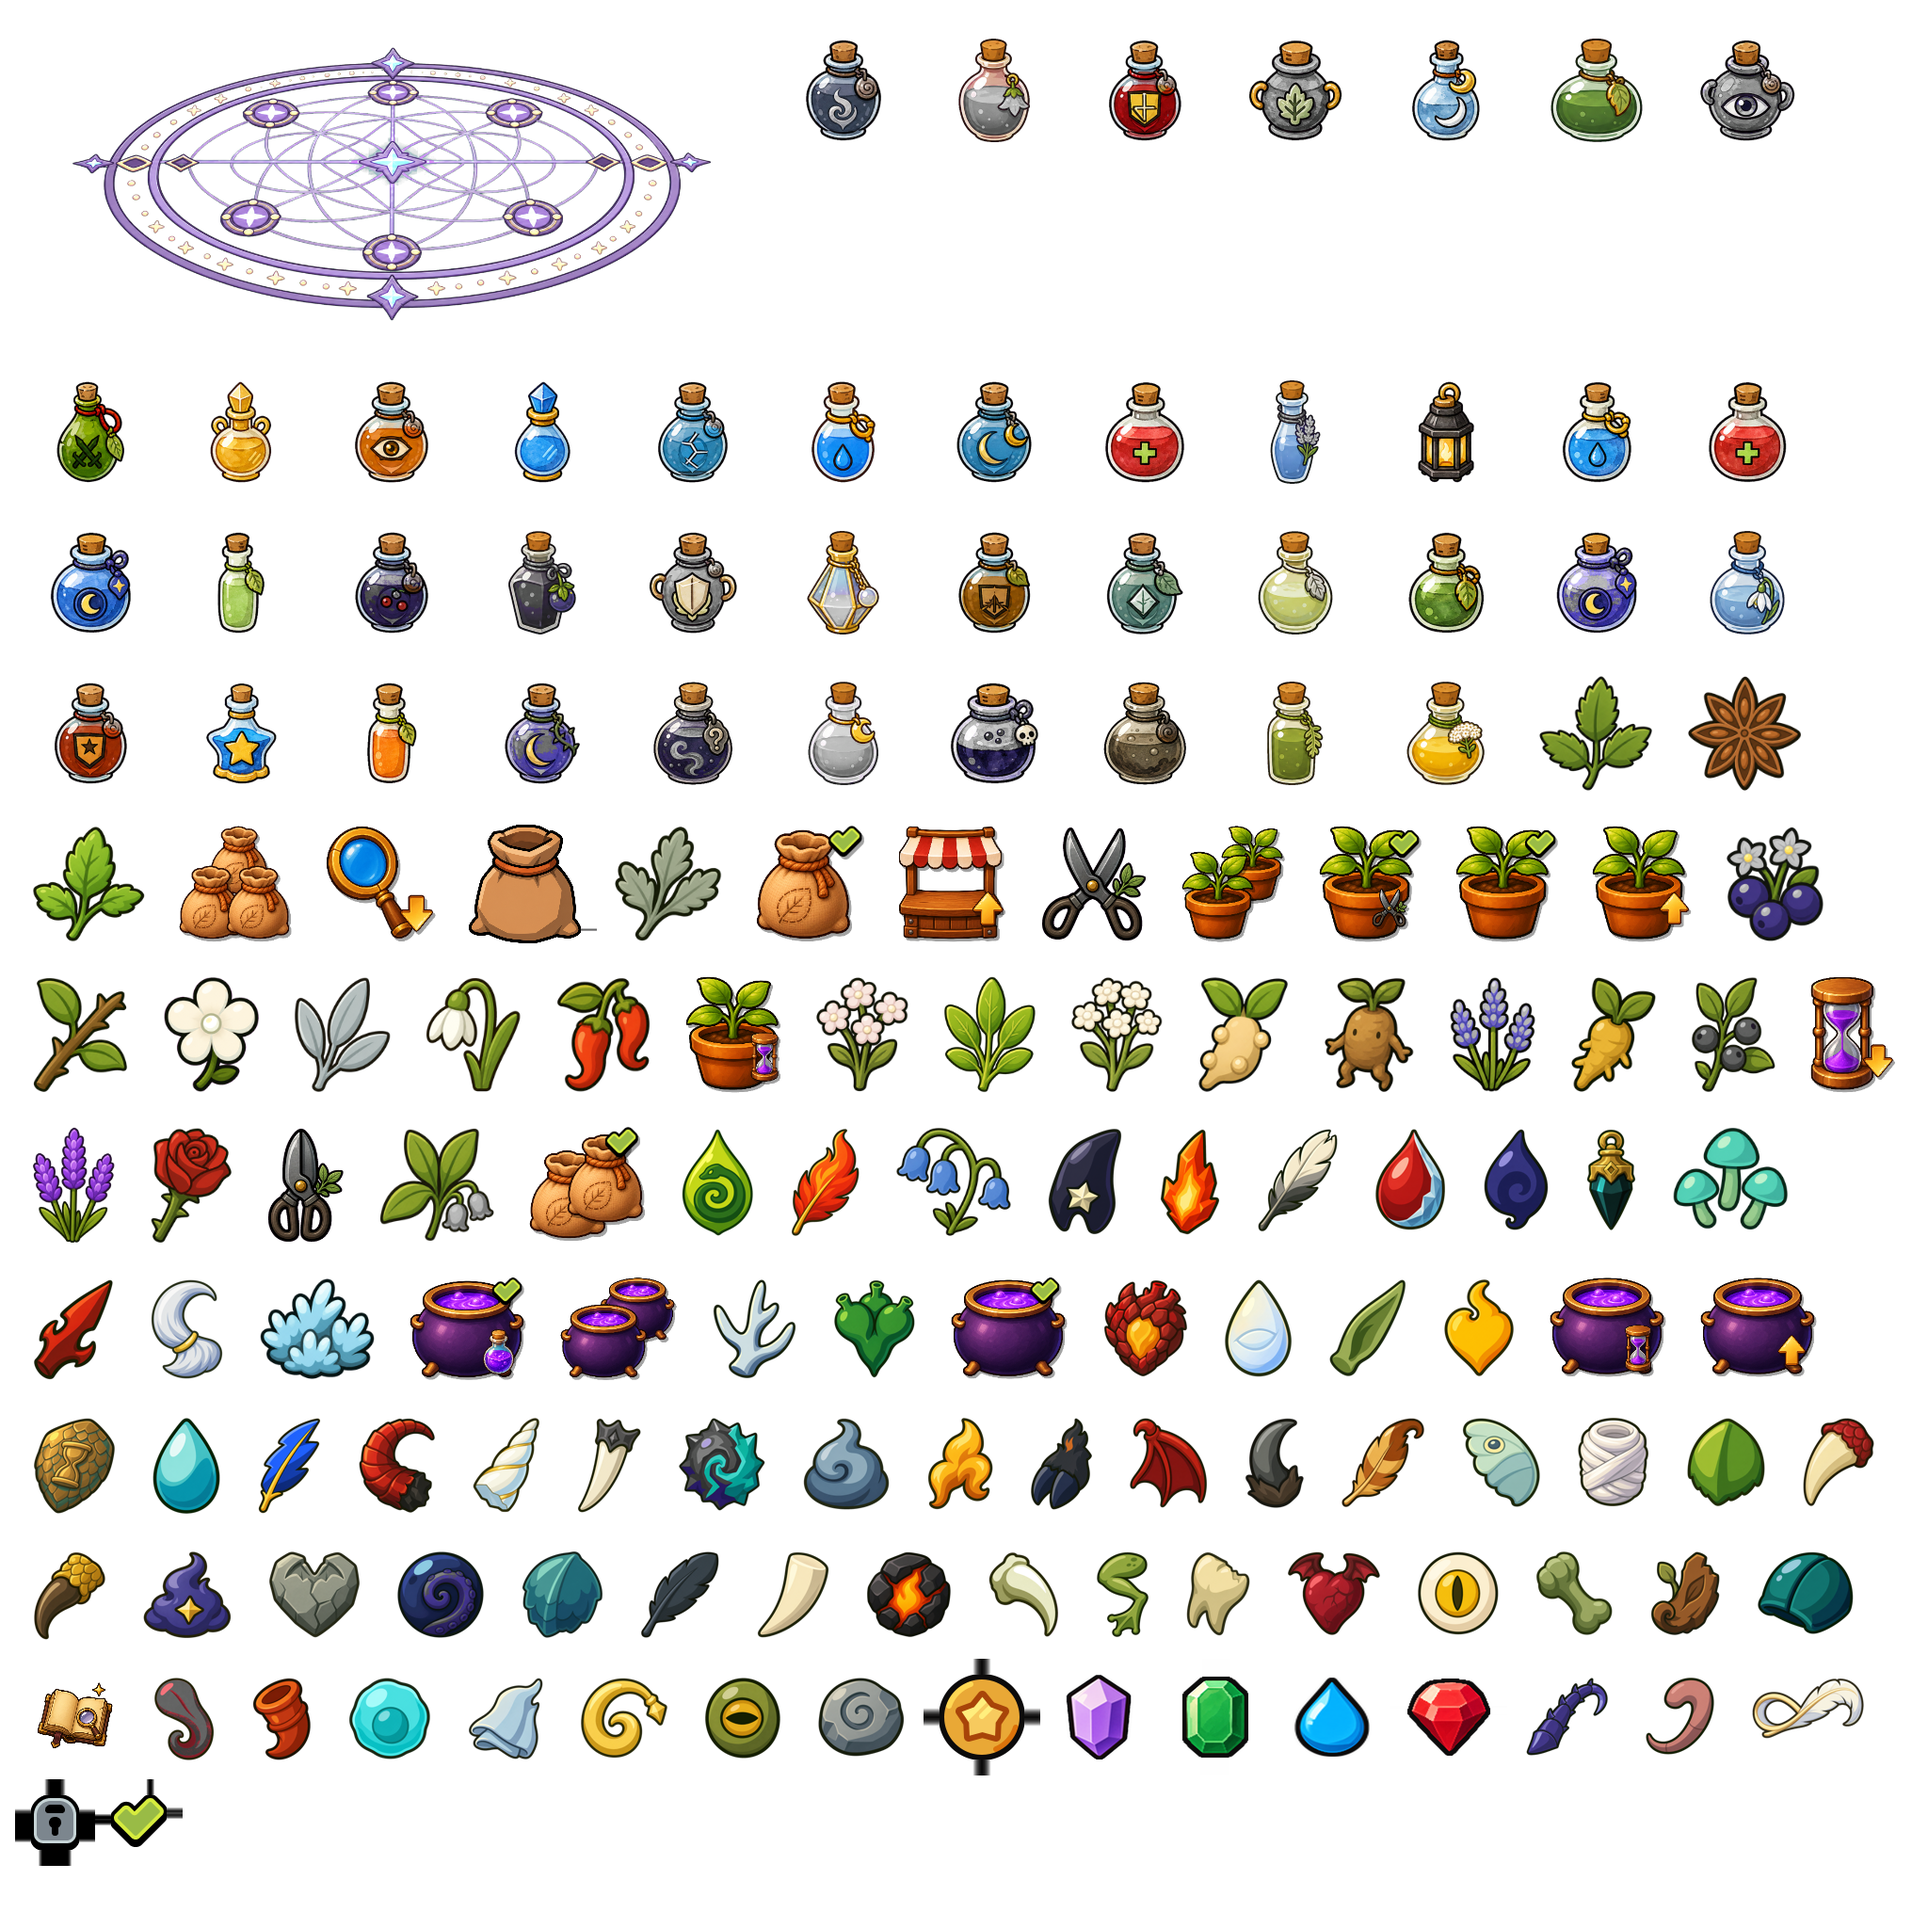
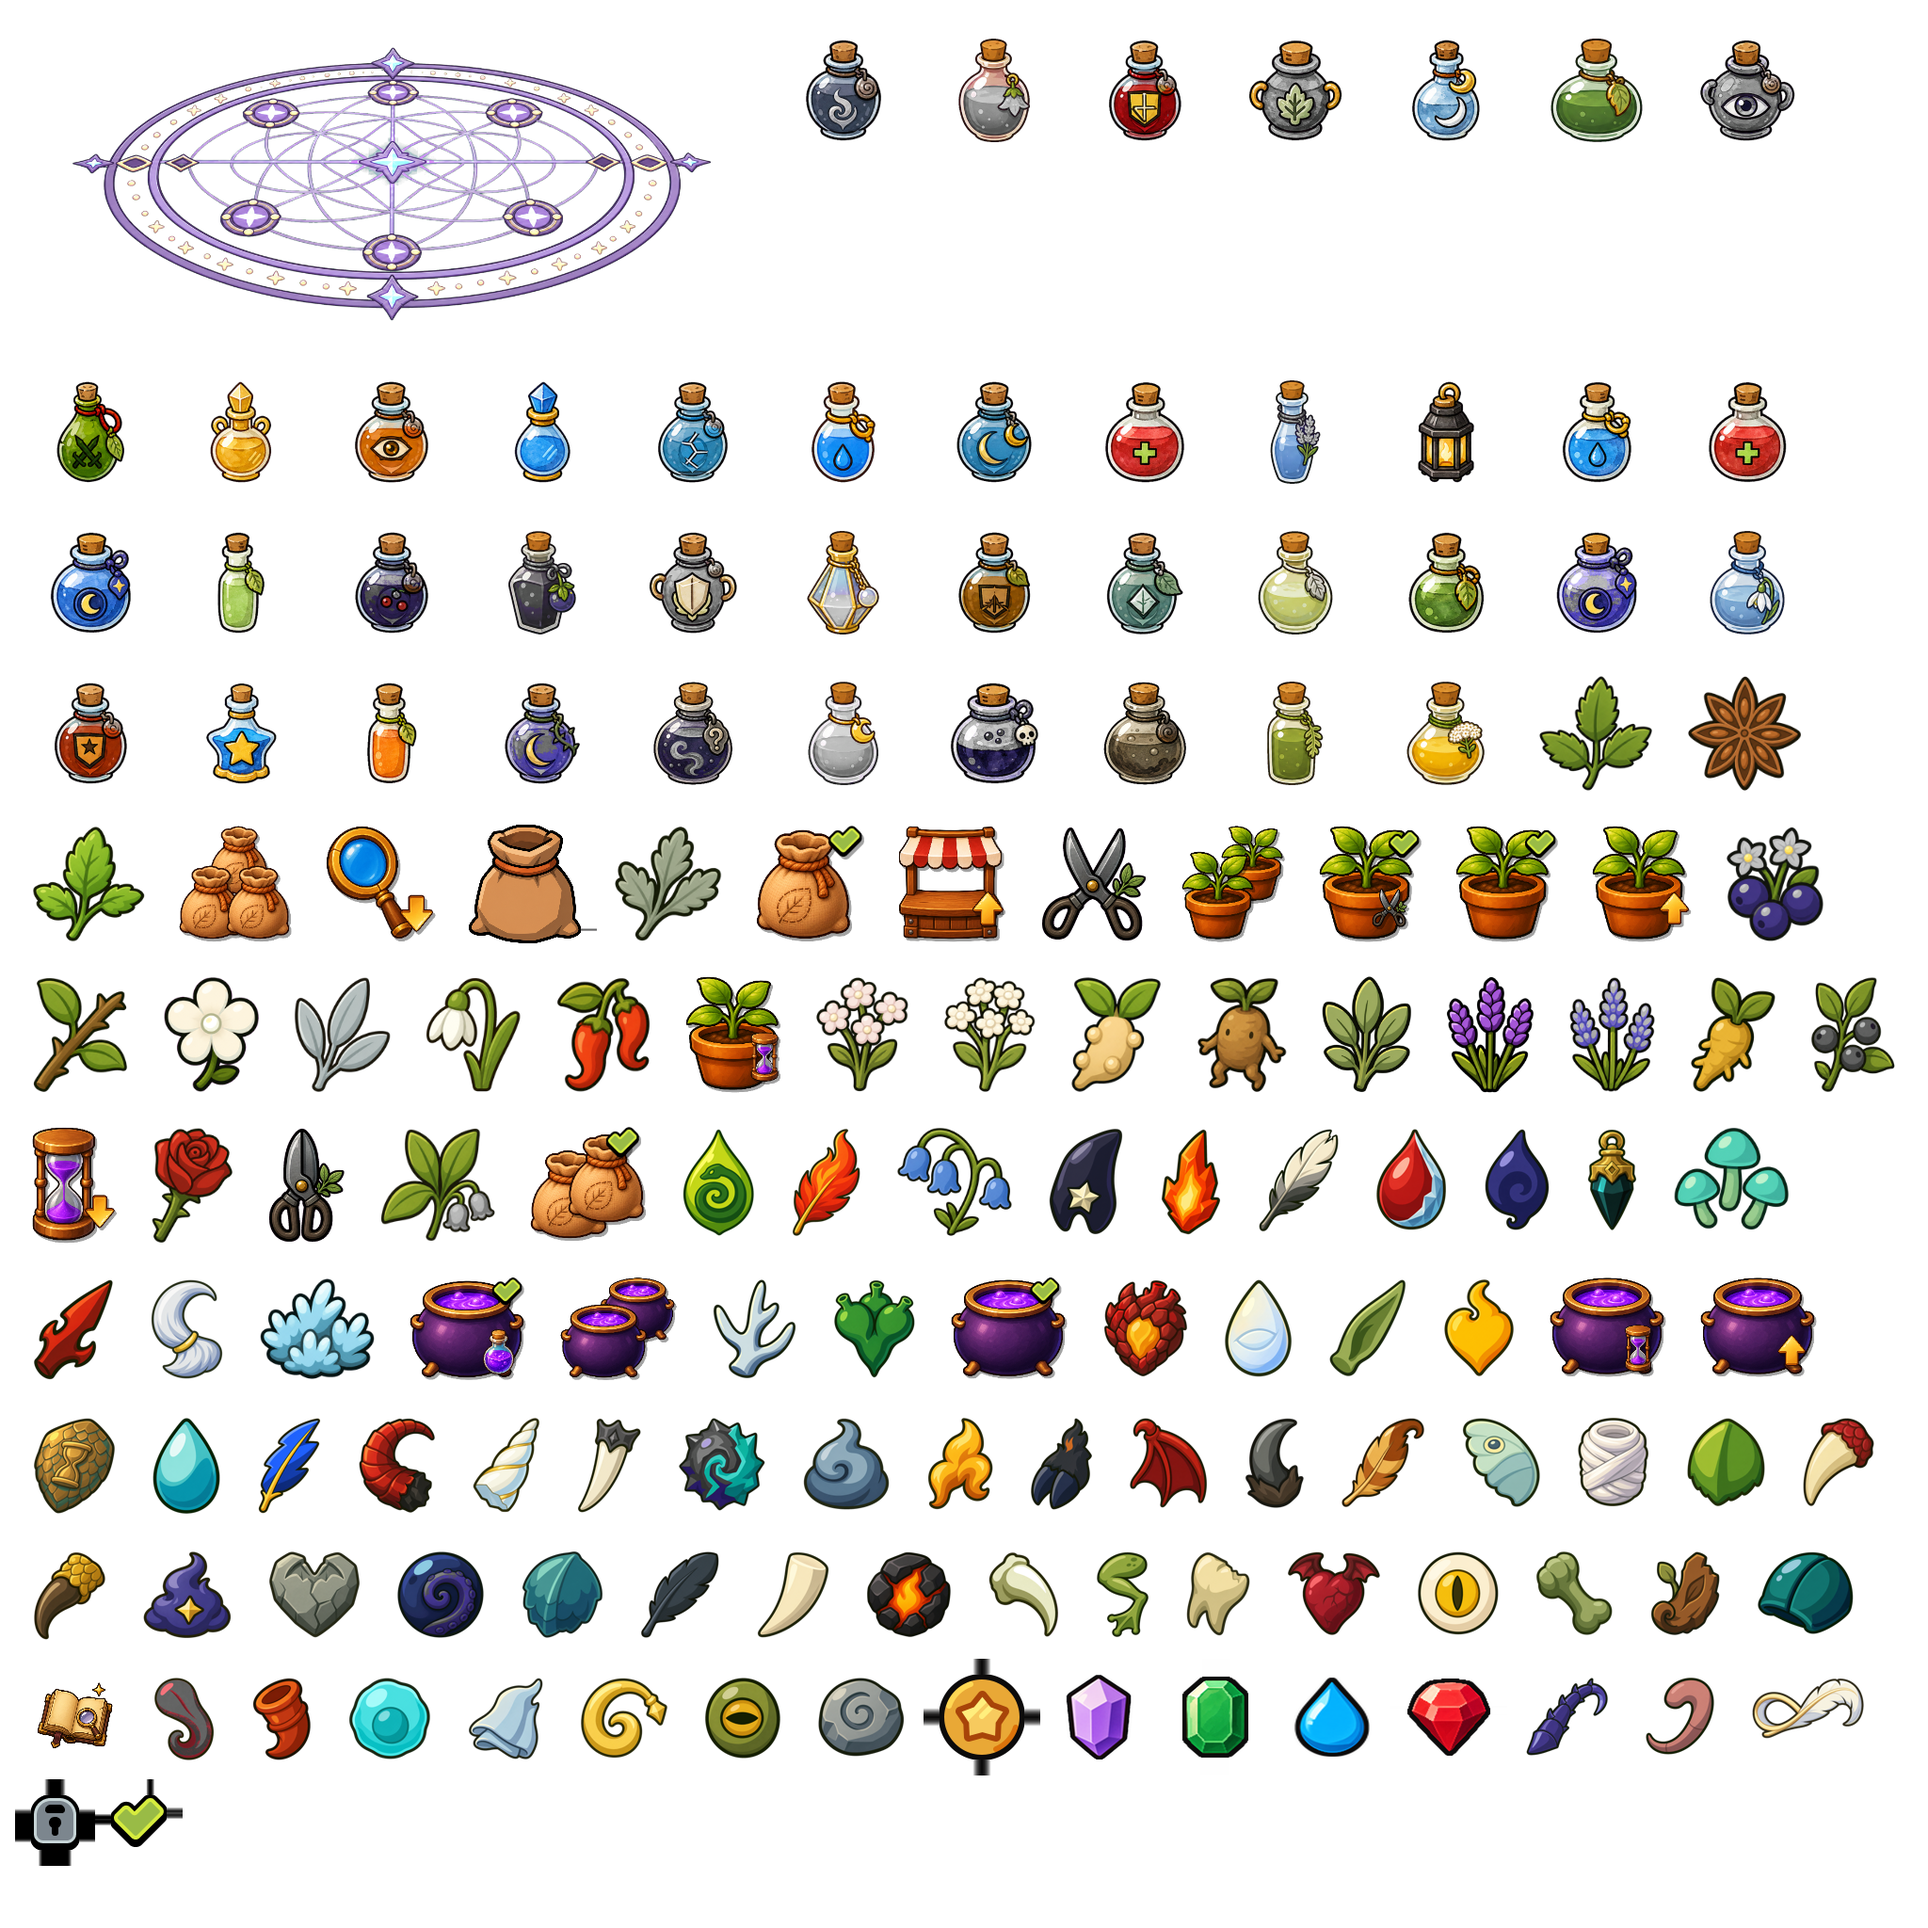
update generated UI assets

diff --git a/src/gameplay/GameplayFacade.test.js b/src/gameplay/GameplayFacade.test.js
@@ -1019,7 +1019,7 @@ describe('GameplayFacade', () => {
     ).toMatchObject({ claimed: true, claimable: false });
   }, 30_000);
 
-  it('restores sage seed medium priority after prestige when other seed preferences reset away', () => {
+  it('preserves sage seed none priority after prestige until the player re-enables it', () => {
     const { ecsFacade, gameplayFacade } = createGameplay();
 
     advanceToLevel(gameplayFacade, 3);
@@ -1039,14 +1039,24 @@ describe('GameplayFacade', () => {
     expect(gameplayFacade.getSnapshot().seedSummoning.dropChances).toMatchObject([
       {
         key: 'sageSeed',
-        dropPreference: 'medium',
-        preferenceWeight: 2,
-        effectiveDropWeight: 2,
-        dropChance: 1,
+        dropPreference: 'none',
+        preferenceWeight: 0,
+        effectiveDropWeight: 0,
+        dropChance: 0,
       },
     ]);
 
     ecsFacade.update({ deltaSeconds: 2 });
+    expect(gameplayFacade.getSnapshot().seedSummoning.canSummon).toBe(false);
+    expect(gameplayFacade.summonSeed()).toMatchObject({
+      ok: false,
+      reason: 'no_active_seed_weights',
+    });
+
+    expect(gameplayFacade.setSeedDropPreference('sageSeed', 'medium')).toMatchObject({
+      ok: true,
+      preference: 'medium',
+    });
     expect(gameplayFacade.getSnapshot().seedSummoning.canSummon).toBe(true);
     expect(gameplayFacade.summonSeed()).toMatchObject({
       ok: true,

diff --git a/docs/obsidian/engineering-liveops/experience/Gameplay Economy.md b/docs/obsidian/engineering-liveops/experience/Gameplay Economy.md
@@ -16,7 +16,7 @@ experience_type: gameplay-economy
 - Summoning seeds consumes mana.
 - Canonical seed display names use title case: Sage, Mint, Nettle, Lavender, Briar, Glowcap, Mandrake, Sunroot, Moonflower, Frostmoss, Dreambell, Star Anise, Bloodrose, Dragonpepper, Silverleaf, Yarrow, Hyssop, Valerian, Comfrey, Nightshade, Belladonna, Wormwood, Snowdrop, Pearlroot.
 - Seed drop preferences multiply base seed `dropWeight` at roll time (`none` 0, `low` 1, `medium` 2, `high` 3); keep config `dropWeight` unchanged and use effective weight for odds.
-- Prestige keeps seed drop preferences while ordinary seed unlock research resets; repair inactive restored drops by forcing unlocked `sageSeed` to `medium`.
+- Prestige keeps seed drop preferences while ordinary seed unlock research resets; preserve an explicit all-`none` setup and keep summoning unavailable until the player re-enables one researched seed.
 - Seeds produce herbs, and herbs have growth duration.
 - Ingredients are inventory-only catalog entries with six rarity tiers; do not invent prices, drop sources, recipes, or progression gates until those rules are explicitly requested.
 - Garden page herb inventory should read owned counts from `snapshot.garden.herbs`; Brewing's herb snapshot can subtract staged cauldron ingredients.
